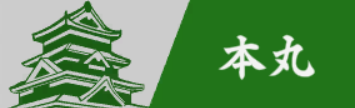
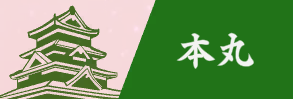
feat: recalibrate JP screen templates on live frames, add white-page startup recovery
- Re-cut all JP templates from real session frames at the locked baseline
  (boot/notice/home/directory/team/loading + full pumpkin set)
- Fix team tab offsets and mostly_dark region for the current layout
- Auto-recover a stalled game startup: detect a static white page during
  boot, nudge the page's startup chain once, refresh once more if needed,
  then fall back to the stuck fuse

diff --git a/touken/jp_sally.py b/touken/jp_sally.py
@@ -25,8 +25,8 @@ from .device_adapter import Point
 # 高度变化后会漂（2026-10-12 事故：窗口 1088→944，指揮标签点歪到编成），
 # 锚点找得到，偏移就跟着对。偏移量都是基准空间（1508x1088）像素。
 TEAM_TAB_OFFSETS = {                  # 部队页签，相对 team/depart 按钮
-    1: (-1151, -593), 2: (-1018, -593), 3: (-884, -593),
-    4: (-750, -593), 5: (-616, -593),
+    1: (-854, -440), 2: (-748, -440), 3: (-646, -440),
+    4: (-539, -440), 5: (-435, -440),
 }
 AUTOMARCH_OFFSET = (1, -239)          # 部队选择页「自動行軍」，相对 team/depart
 AUTOMARCH_CONFIRM_OFFSET = (151, 582) # 弹窗「依頼する」，相对弹窗标题
@@ -40,6 +40,7 @@ RELOAD_AFTER = 60.0                 # 导航时黑屏加载超过这么久就刷
 BOOT_TIMEOUT = 300.0                # 刷新后重进本丸的上限（数据加载可能很慢）
 GREET_STABLE = 4.0                  # 登录问候画面稳定这么久才点中央跳过
 UNKNOWN_STABLE = 8.0                # 起手未知画面稳定这么久就刷新页面重来
+CHAIN_KICK_AFTER = 20.0             # 启动途中白页静止这么久就先踹启动链
 PARTY_DATA_WAIT = 10.0              # 等队伍数据跟上的宽限（进出阵菜单后接口回填要一两拍）
 PARTY_DATA_MAX_AGE = 180.0          # 队伍数据超过这么久没更新就不算数
 
@@ -202,6 +203,8 @@ class JpNavigator:
         last_change = time.monotonic()
         entered = False                   # 已点过标题页本丸按钮
         greeted = False                   # 登录问候已点过
+        kicked = False                    # 已踹过启动链（白页自救）
+        rescue_reloaded = False           # 白页自救已额外刷新过（仅此一次）
         unknown_since: float | None = None  # 进入未知画面的时刻
         departed = False                  # 已看到旧画面消失（防刷新前的残留帧被误当「到本丸了」）
         with self.device.relaxed_view():
@@ -241,6 +244,32 @@ class JpNavigator:
                     base_w, base_h = jp_vision.base_size()
                     self.device.click(Point(base_w // 2, base_h // 2))
                     greeted = True
+                elif (not entered and screen == 'unknown'
+                        and unknown_since is not None
+                        and time.monotonic() - unknown_since > CHAIN_KICK_AFTER):
+                    # 白壳页：刷新后游戏启动链没起来（框架加载失败或初始化
+                    # 没被调用），画面永远是静止白页，干等只会撞卡死熔断。
+                    # 先纯协议层踹启动链（不动鼠标键盘）；链已死或踹了没
+                    # 反应，才额外刷新一次重骰（导航那次之外仅此一次，
+                    # 之后仍起不来就交给卡死熔断安全停车）。
+                    alive = False
+                    if not kicked:
+                        kicked = True
+                        self.log('游戏启动链没起来，尝试唤醒…')
+                        try:
+                            alive = self.device.kick_startup()
+                        except Exception:
+                            alive = False
+                        if alive:
+                            unknown_since = None
+                            last_change = time.monotonic()
+                    if not alive and not rescue_reloaded:
+                        rescue_reloaded = True
+                        kicked = False
+                        unknown_since = None
+                        last_change = time.monotonic()
+                        self.log('启动链唤不醒，再刷新一次页面…')
+                        self.device.reload()
                 unknown_since = (unknown_since if screen == 'unknown' else None)
                 if unknown_since is None and screen == 'unknown':
                     unknown_since = time.monotonic()

diff --git a/tests/test_jp_sally.py b/tests/test_jp_sally.py
@@ -54,10 +54,12 @@ def fake_screen(*names):
 class FakeDevice:
     """JpGameDevice 形状：screenshot(force) + click(Point) + reload/relaxed_view。"""
 
-    def __init__(self, frames):
+    def __init__(self, frames, kick_result=True):
         self.frames = list(frames)
         self.clicks = []          # 基准空间像素 (x, y)
         self.reloads = 0
+        self.kick_result = kick_result
+        self.kicks = 0
 
     def screenshot(self, force=False):
         if self.frames:
@@ -70,6 +72,10 @@ class FakeDevice:
 
     def reload(self):
         self.reloads += 1
+
+    def kick_startup(self):
+        self.kicks += 1
+        return self.kick_result
 
     def relaxed_view(self):
         import contextlib
@@ -461,6 +467,63 @@ def test_boot_ignores_stale_home_frame(monkeypatch):
     # 残留帧没骗过它：箭头与本丸按钮都被点过
     assert len(browser.clicks) == 2
     assert any('重新进入本丸' in line for line in logs)
+
+
+def test_boot_white_page_kicks_startup_chain(monkeypatch):
+    """白页静止（启动链没起来）：先踹链，踹活后照常走启动序列，不刷新。"""
+    monkeypatch.setattr(jp_sally, 'GREET_STABLE', -1.0)
+    monkeypatch.setattr(jp_sally, 'CHAIN_KICK_AFTER', -1.0)
+    frames = [
+        greeting_frame(), greeting_frame(),    # 白页静止 → 踹链
+        fake_screen('boot/volume-arrow'),
+        fake_screen('boot/honmaru-button'),
+        fake_screen('home/badge'),
+    ]
+    browser = FakeDevice(frames, kick_result=True)
+    sally, logs = make_sally(browser)
+    sally._boot_to_home()
+    assert browser.kicks == 1
+    assert browser.reloads == 0
+    assert any('启动链没起来' in line for line in logs)
+    assert any('重新进入本丸' in line for line in logs)
+
+
+def test_boot_white_page_dead_chain_reloads_once(monkeypatch):
+    """白页且启动链已死（唤不醒）：额外刷新一次重骰，之后仍起不来就不再刷。"""
+    monkeypatch.setattr(jp_sally, 'GREET_STABLE', -1.0)
+    monkeypatch.setattr(jp_sally, 'CHAIN_KICK_AFTER', -1.0)
+    frames = [
+        greeting_frame(), greeting_frame(),    # 白页 → 踹链失败 → 刷新
+        greeting_frame(), greeting_frame(),    # 刷新后仍白页 → 再踹仍失败，不再刷
+        fake_screen('boot/volume-arrow'),      # （玩家手动救活）照常启动
+        fake_screen('boot/honmaru-button'),
+        fake_screen('home/badge'),
+    ]
+    browser = FakeDevice(frames, kick_result=False)
+    sally, logs = make_sally(browser)
+    sally._boot_to_home()
+    assert browser.kicks == 2
+    assert browser.reloads == 1
+    assert any('再刷新一次' in line for line in logs)
+
+
+def test_boot_white_page_kick_no_effect_reloads_once(monkeypatch):
+    """踹链「成功」却迟迟没画面（踹了没反应）：额外刷新一次重骰，不无限踹。"""
+    monkeypatch.setattr(jp_sally, 'GREET_STABLE', -1.0)
+    monkeypatch.setattr(jp_sally, 'CHAIN_KICK_AFTER', -1.0)
+    frames = [
+        greeting_frame(), greeting_frame(),    # 白页 → 踹链「成功」
+        greeting_frame(),                      # 仍白页 → 认定没反应 → 刷新
+        greeting_frame(), greeting_frame(),    # 刷新后仍白页 → 再踹一次
+        fake_screen('boot/volume-arrow'),
+        fake_screen('boot/honmaru-button'),
+        fake_screen('home/badge'),
+    ]
+    browser = FakeDevice(frames, kick_result=True)
+    sally, logs = make_sally(browser)
+    sally._boot_to_home()
+    assert browser.kicks == 2
+    assert browser.reloads == 1
 
 
 def test_run_script_success_path(monkeypatch):

diff --git a/tests/test_jp_browser.py b/tests/test_jp_browser.py
@@ -35,6 +35,13 @@ class FakeSocket:
             return {'cssLayoutViewport': dict(self.state['view'])}
         if method == 'Page.captureScreenshot':
             return {'data': _png_b64()}
+        if method == 'Page.getFrameTree':
+            return {'frameTree': self.state.get(
+                'frame_tree', {'frame': {'id': 'root', 'url': GAME['url']}})}
+        if method == 'Page.createIsolatedWorld':
+            return {'executionContextId': 7}
+        if method == 'Runtime.evaluate':
+            return {'result': {'value': self.state.get('kick_value', 'kicked')}}
         return {}
 
     def send(self, method, params=None):
@@ -246,3 +253,63 @@ def test_swipe_press_failure_surfaces_original_error(fake, monkeypatch):
     fake['sockets'][0].fail_on = 'mousePressed'
     with pytest.raises(jp_browser.BrowserError, match='连接已断开'):
         browser.swipe(0.2, 0.8, 0.8, 0.2)
+
+
+# ---- 白页自救：启动链踹醒（kick_startup） ----
+
+GADGET_TREE = {'frame': {'id': 'root', 'url': GAME['url']}, 'childFrames': [
+    {'frame': {'id': 'gadget1',
+               'url': 'https://osapi.dmm.com/gadgets/ifr?aid=825012'}},
+]}
+DEAD_TREE = {'frame': {'id': 'root', 'url': GAME['url']}, 'childFrames': [
+    {'frame': {'id': 'dead1', 'url': 'chrome-error://chromewebdata/'}},
+]}
+
+
+def test_kick_startup_evaluates_in_gadget_frame(fake):
+    fake['frame_tree'] = GADGET_TREE
+    browser = jp_browser.JpBrowser().connect()
+    assert browser.kick_startup() is True
+    socket = fake['sockets'][0]
+    worlds = [params for method, params in socket.calls
+              if method == 'Page.createIsolatedWorld']
+    evaluates = [params for method, params in socket.calls
+                 if method == 'Runtime.evaluate']
+    assert worlds == [{'frameId': 'gadget1'}]
+    assert len(evaluates) == 1 and evaluates[0]['contextId'] == 7
+    assert 'main.init' in evaluates[0]['expression']
+
+
+def test_kick_startup_false_when_gadget_missing(fake):
+    browser = jp_browser.JpBrowser().connect()   # 默认 frame_tree 只有根
+    assert browser.kick_startup() is False
+    socket = fake['sockets'][0]
+    assert not any(method == 'Runtime.evaluate' for method, _ in socket.calls)
+
+
+def test_kick_startup_false_when_gadget_is_error_shell(fake):
+    fake['frame_tree'] = DEAD_TREE
+    browser = jp_browser.JpBrowser().connect()
+    assert browser.kick_startup() is False
+
+
+def test_kick_startup_false_when_main_missing(fake):
+    fake['frame_tree'] = GADGET_TREE
+    fake['kick_value'] = 'no-main'
+    browser = jp_browser.JpBrowser().connect()
+    assert browser.kick_startup() is False
+
+
+def test_kick_startup_true_when_game_frame_already_up(fake):
+    """webgl 子框架已在 = 游戏活着：直接 True，不发 evaluate 不打扰它。"""
+    fake['frame_tree'] = {'frame': {'id': 'root', 'url': GAME['url']}, 'childFrames': [
+        {'frame': {'id': 'gadget1', 'url': 'https://osapi.dmm.com/gadgets/ifr?aid=825012'},
+         'childFrames': [
+             {'frame': {'id': 'webgl1',
+                        'url': 'https://www.touken-ranbu.jp/webgl/iframe?device=1'}},
+         ]},
+    ]}
+    browser = jp_browser.JpBrowser().connect()
+    assert browser.kick_startup() is True
+    socket = fake['sockets'][0]
+    assert not any(method == 'Runtime.evaluate' for method, _ in socket.calls)

diff --git a/touken/jp_browser.py b/touken/jp_browser.py
@@ -19,6 +19,21 @@ class BrowserError(RuntimeError):
     """游戏页连接/画面异常；文案面向玩家，不含连接细节。"""
 
 
+_KICK_EXPRESSION = """\
+(function () {
+    try {
+        if (typeof main !== 'undefined' && main && typeof main.init === 'function') {
+            main.init();
+            return 'kicked';
+        }
+        return 'no-main';
+    } catch (e) {
+        return 'error';
+    }
+})()
+"""
+
+
 class JpBrowser:
     """一个日服游戏页的操作通道；恰好一个游戏页才允许连接。"""
 
@@ -159,6 +174,43 @@ class JpBrowser:
             last = view
             time.sleep(0.5)
         raise BrowserError('刷新后游戏画面尺寸一直不稳定，已停止；请人工查看浏览器')
+
+    def kick_startup(self) -> bool:
+        """游戏没起来时在 gadget 框架里补踹一脚启动链（main.init）。
+
+        刷新后 DMM 侧偶尔只加载了外壳、游戏初始化没被调用，画面永远停在
+        白页。本方法不动鼠标键盘，纯协议层调用：
+        返回 True = 游戏已在跑，或已成功补踹（随后会自己走音量注意→标题页）；
+        返回 False = gadget 框架缺失或加载失败（死壳），踹无可踹，
+        只能刷新页面重骰。"""
+        tree = self._call('Page.getFrameTree', timeout=8)['frameTree']
+        gadget_id = None
+        game_up = False
+        stack = [tree]
+        while stack:
+            node = stack.pop()
+            url = node['frame'].get('url', '')
+            # 游戏本体跑在 gadget 里的 webgl 子框架；它已经在了就是活着。
+            # 加载失败的框架 url 是 chrome-error://，不会匹配这两个特征，
+            # 自然落到「找不到 → False」；其余无关框架（统计挂件等）忽略。
+            if 'touken-ranbu.jp/webgl/' in url:
+                game_up = True
+            elif 'osapi.dmm.com/gadgets/' in url:
+                gadget_id = node['frame']['id']
+            stack.extend(node.get('childFrames') or [])
+        if game_up:
+            return True
+        if gadget_id is None:
+            return False
+        world = self._call('Page.createIsolatedWorld',
+                           {'frameId': gadget_id}, timeout=8)
+        result = self._call('Runtime.evaluate', {
+            'expression': _KICK_EXPRESSION,
+            'contextId': world['executionContextId'],
+            'returnByValue': True,
+        }, timeout=10)
+        value = (result.get('result') or {}).get('value')
+        return value == 'kicked'
 
     # ---- 画面与输入 ----
 

diff --git a/tests/test_jp_pumpkin.py b/tests/test_jp_pumpkin.py
@@ -1,8 +1,8 @@
 # -*- coding: utf-8 -*-
 """日服南瓜宿主（jp_pumpkin）：配置、板子判定、素材体检。
 
-画面导航/点击不走真设备，素材体检直接吃「仓库里没有 pumpkin/* 模板」
-的现状——标定前宿主必须把缺什么列清楚然后停，绝不盲点。
+画面导航/点击不走真设备，素材体检用 monkeypatch 模拟模板缺失
+（模板已于 2026-11-06 标定入仓）——宿主必须把缺什么列清楚然后停，绝不盲点。
 """
 import json
 
@@ -89,9 +89,16 @@ def test_board_full_reads_sheet_state(tmp_path, monkeypatch):
     store.close()
 
 
-def test_goto_sally_reports_missing_templates_and_stops():
+@pytest.fixture
+def templates_missing(monkeypatch):
+    # 2026-11-06 起模板已标定入仓，缺素材的场景改为模拟
+    def _boom(name):
+        raise jp_vision.TemplateNotFound(f'{name}（模拟缺失）')
+    monkeypatch.setattr(jp_vision, 'load_template', _boom)
+
+
+def test_goto_sally_reports_missing_templates_and_stops(templates_missing):
     host, _ = make_host()
-    # 仓库里没有 pumpkin/* 模板（未标定），体检必须全列出来
     gen = host._pumpkin_goto_sally()
     messages = []
     try:
@@ -105,7 +112,7 @@ def test_goto_sally_reports_missing_templates_and_stops():
         assert name in text
 
 
-def test_preflight_lists_every_missing_template():
+def test_preflight_lists_every_missing_template(templates_missing):
     host, _ = make_host()
     missing = host._preflight()
     assert len(missing) == len(jp_pumpkin._REQUIRED_TEMPLATES)

diff --git a/touken/jp_vision.py b/touken/jp_vision.py
@@ -89,11 +89,14 @@ def near_black(image, ceiling: int = 8) -> bool:
 
 
 def mostly_dark(image, ceiling: int = 16,
-                region: tuple[float, float, float, float] = (0.15, 0.15, 0.7, 0.6)) -> bool:
+                region: tuple[float, float, float, float] = (0.25, 0.15, 0.6, 0.4)) -> bool:
     """画面中心区域全暗视为黑屏转场/加载。
 
     整帧判黑（near_black）会被 DMM 页头页尾的白底骗过——游戏区全黑加载时
-    网页框架还是白的。实际画面（本丸/地图/战斗）中心必有内容，不会全暗。"""
+    网页框架还是白的。实际画面（本丸/地图/战斗）中心必有内容，不会全暗。
+    区域要避开两处常驻亮物（2026-11 实测旧区域全踩中，黑屏永远判不出）：
+    画布底部广告条（本丸録等亮色横幅，y≈0.65 以下）和加载樱花图标
+    （画布左下，x<0.18、y>0.58）。"""
     w, h = image.size
     rx, ry, rw, rh = region
     crop = image.crop((int(rx * w), int(ry * h),

diff --git a/touken/jp_game_device.py b/touken/jp_game_device.py
@@ -44,6 +44,10 @@ class JpGameDevice:
     def reload(self, settle_timeout: float = 20.0) -> None:
         self._browser.reload(settle_timeout=settle_timeout)
 
+    def kick_startup(self) -> bool:
+        """白页自救：补踹游戏启动链；链已死（框架缺失）返回 False。"""
+        return self._browser.kick_startup()
+
     def relaxed_view(self):
         return self._browser.relaxed_view()
 
